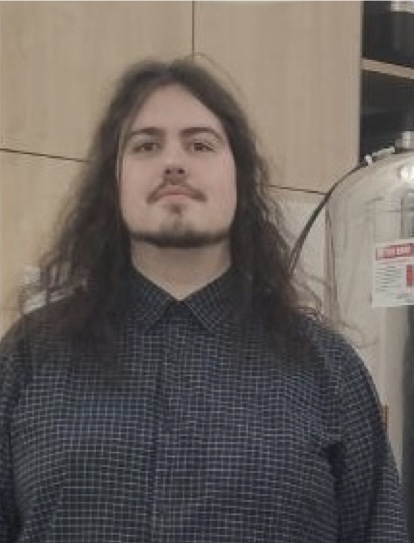
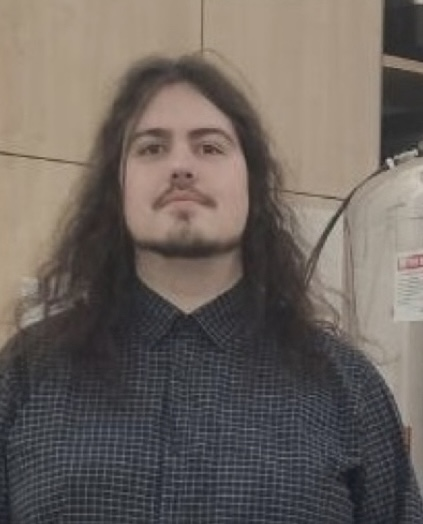
responsive

diff --git a/styles.css b/styles.css
@@ -47,20 +47,10 @@ footer {
     padding: 10px 0;
 }
 
-.member {
-    display: flex;
-    align-items: center; /* Vertically align text and image */
-    justify-content: center; /* Center the entire section */
-    text-align: left; /* Ensure text aligns correctly */
-    gap: 20px; /* Space between image and text */
-    max-width: 700px; /* Adjust width as needed */
-    margin: 0 auto; /* Center the whole section */
-    margin-bottom: 40px;
-}
 
 .member-photo {
-    width: 240px; /* Adjust size as needed */
-    height: auto;
+    height: 240px;
+    width: auto; /* Adjust size as needed */
     object-fit: cover;
 }
 
@@ -111,4 +101,39 @@ footer {
     background-color: #004080; /* Dark blue highlight */
     padding: 5px 10px;
     border-radius: 5px; /* Optional rounded effect */
+}
+/* Default styles - Side-by-side layout for desktop */
+.members-container {
+    display: flex;
+    flex-direction: column;
+    align-items: center;
+    gap: 20px; /* Adds spacing between members */
+}
+
+.member {
+    display: flex;
+    align-items: center;
+    width: 80%; /* Controls width on larger screens */
+    max-width: 600px; /* Limits max width for consistency */
+    text-align: left; /* Align text to the left */
+    gap: 20px; /* Space between image and text */
+}
+
+/* Style the image */
+.member img {
+    max-width: 250px; /* Adjusts image size */
+    height: auto;
+    border-radius: 10px; /* Optional: Adds rounded corners */
+}
+
+/* On smaller screens (mobile), move text below the image */
+@media (max-width: 768px) {
+    .member {
+        flex-direction: column; /* Stack image and text */
+        text-align: center; /* Center text */
+    }
+
+    .member img {
+        max-width: 80%; /* Slightly larger image on mobile */
+    }
 }

diff --git a/contact.html b/contact.html
@@ -13,17 +13,25 @@
         justify-content: center; /* Centers horizontally */
         align-items: center; /* Centers vertically */
         height: auto; /* Remove fixed height to reduce space */
-        margin-top: -30px; /* Adjust this value to move the map closer */
+        margin-top: 0px; /* Adjust this value to move the map closer */
     }    
+
+	.centered-content {
+            position: relative;
+            text-align: center;
+            margin: 0 auto;
+            max-width: 1000px;
+        }
+
 	</style>
 
 </head>
 <body>
-<div class="member">
+<div class="centered-content">
 <img src="https://www.usc.es/ciqus/sites/default/files/logociqusnuevo.png" alt="Tiago Mendes Ferreira" class="logo">
 </div>
 <div class="container">
-<iframe src="https://www.google.com/maps/embed?pb=!1m14!1m12!1m3!1d141.74656877864618!2d-8.557480501315554!3d42.873148978340474!2m3!1f38.773373223635!2f39.42770549487987!3f0!3m2!1i1024!2i768!4f35!5e1!3m2!1sen!2ses!4v1738791883939!5m2!1sen!2ses" width="1000" height="450" style="border:0;" allowfullscreen="" loading="lazy" referrerpolicy="no-referrer-when-downgrade"></iframe>
+<iframe src="https://www.google.com/maps/embed?pb=!1m14!1m12!1m3!1d141.74656877864618!2d-8.557480501315554!3d42.873148978340474!2m3!1f38.773373223635!2f39.42770549487987!3f0!3m2!1i1024!2i768!4f35!5e1!3m2!1sen!2ses!4v1738791883939!5m2!1sen!2ses" width="800" height="450" style="border:0;" allowfullscreen="" loading="lazy" referrerpolicy="no-referrer-when-downgrade"></iframe>
 
 </div>
 

diff --git a/members.html b/members.html
@@ -13,7 +13,7 @@
             
             
             <h3 class="news-header">Present Team</h3>
-
+<div class="members-container">
 <div class="member">
     <img src="tiago.jpg" alt="Tiago Mendes Ferreira" class="member-photo">
     <div class="member-text">
@@ -48,9 +48,11 @@
 <a href="https://orcid.org/0000-0002-1126-6627" target="_blank">ORCID link</a>
     </div>
 </div>
+</div>
 
             <h3 class="news-header">International Collaborators</h3>
 
+<div class="members-container">
 <div class="member">
     <img src="https://filer.itz.uni-halle.de/dl/2248/pub/pict_ks.jpg" alt="Tiago Mendes Ferreira" class="member-photo">
     <div class="member-text">
@@ -75,20 +77,17 @@
 <a href="https://orcid.org/0000-0002-3999-4722" target="_blank">ORCID link</a>
     </div>
 </div>
+</div>
 
 
             <h3 class="news-header">Previous Members</h3>
-            <div class="member">
+	    <div class="members-container">
+            <div class="member-text">
                 <p><strong>Anika Wurl</strong> (PhD student, MLU)</p>
-            </div>
-            <div class="member">
                 <p><strong>Victoria Lausch</strong> (Bachelor student, MLU)</p>
-            </div>
-            <div class="member">
                 <p><strong>Lucas Löser</strong> (Master student, MLU)</p>
-            </div>
-            <div class="member">
                 <p><strong>Eric Plato</strong> (Bachelor student, MLU)</p>
+            </div>
             </div>
         </section>
     </main>
